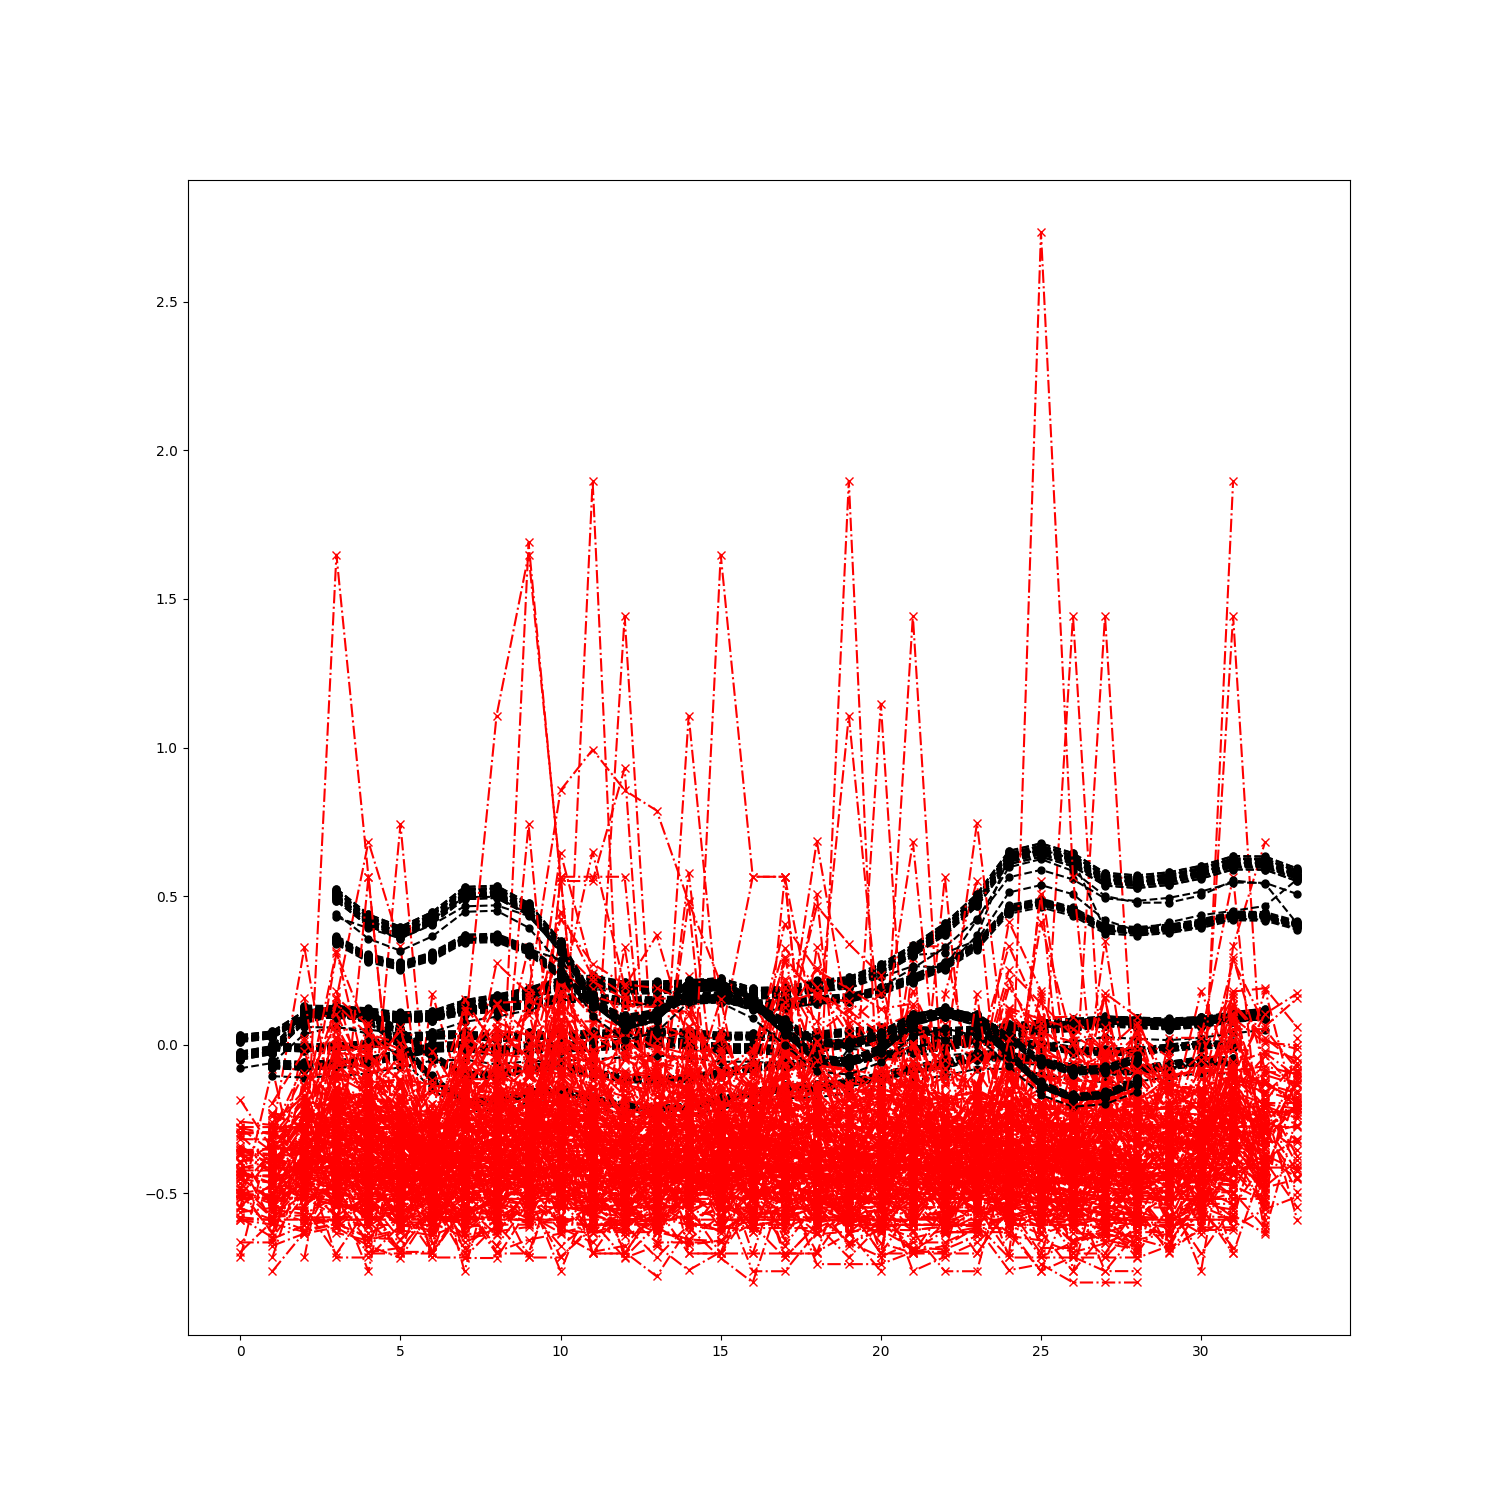
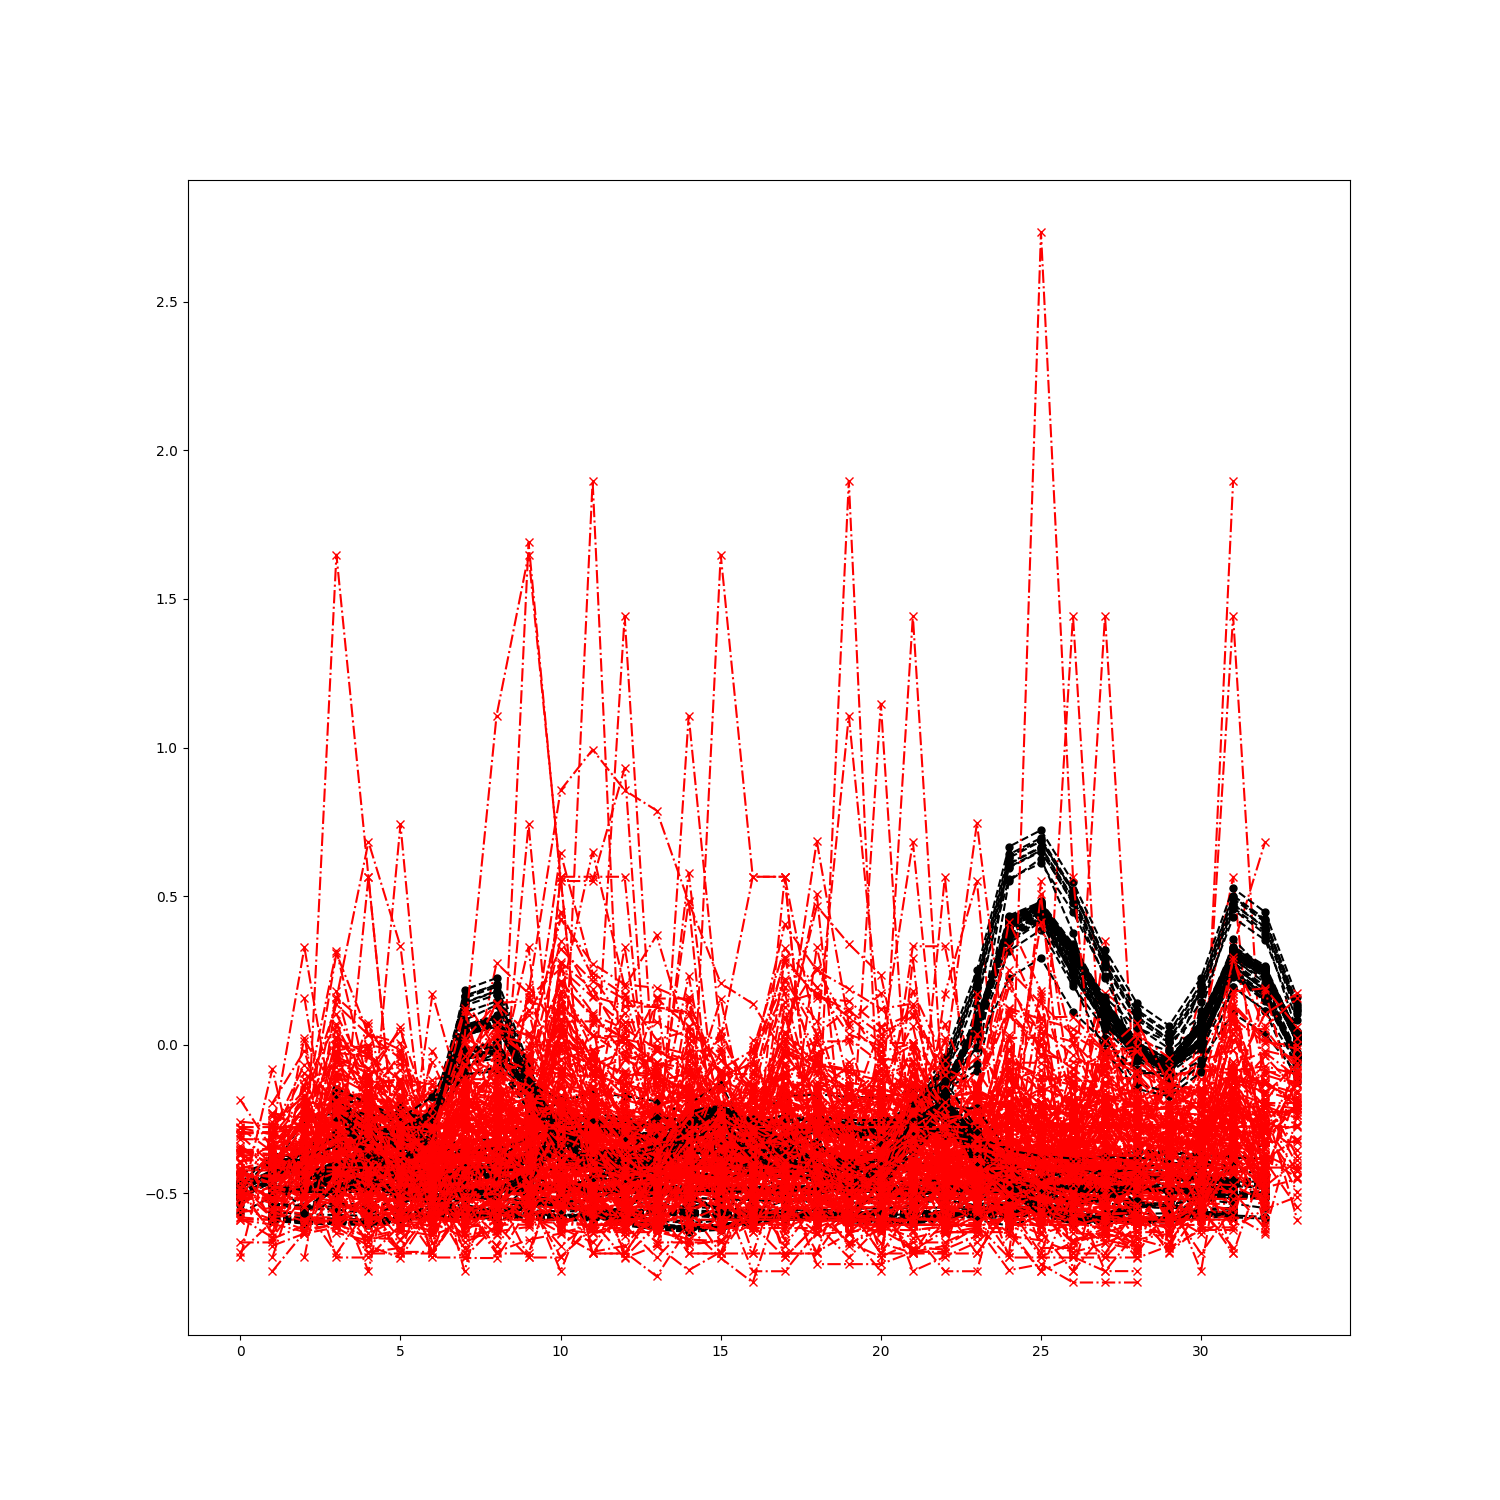
Fixed plotting the predictions, and added STAGCN
Fixed the plotting. Now we plot the average
predictions for each city. A command line arg
has been added for easy run of STGCN and STAGCN
(basically to ease running baselines)

Changed region(s): [[0.1533, 0.552, 0.8893, 0.828]]

diff --git a/main.py b/main.py
@@ -9,6 +9,7 @@ import pandas as pd
 from sklearn import preprocessing
 import matplotlib.pyplot as plt
 import seaborn as sns
+from datetime import datetime
 
 import torch
 import torch.nn as nn
@@ -39,11 +40,13 @@ def set_env(seed):
 
 def get_parameters():
     parser = argparse.ArgumentParser(description='STGCN')
+    parser.add_argument("--framework", type=str,
+                        choices=['STAGCN', 'STGCN'], default='STAGCN')
     parser.add_argument('--enable_cuda', type=bool,
                         default=True, help='enable CUDA, default as True')
     parser.add_argument('--seed', type=int, default=42,
                         help='set the random seed for stabilizing experiment results')
-    parser.add_argument('--dataset', type=str, default='metr-la',
+    parser.add_argument('--dataset', type=str, default='covid',
                         choices=['metr-la', 'pems-bay', 'pemsd7-m', 'covid'])
     parser.add_argument('--n_his', type=int, default=30)
     parser.add_argument('--n_pred', type=int, default=10,
@@ -226,21 +229,95 @@ def val(model, val_iter):
 def test(zscore, loss, model, test_iter, args, return_preds=False):
     model.eval()
     test_MSE, preds, ground_truths = utility.evaluate_model(
-        model, loss, test_iter, return_preds)
-    test_MAE, test_RMSE, test_WMAPE, test_NRMSE, test_MAPE = utility.evaluate_metric(
+        model, loss, test_iter, return_preds, scaler=zscore)
+    print(len(preds), len(ground_truths))
+    test_MAE, test_RMSE, test_WMAPE, test_NRMSE, test_MAPE, _, __ = utility.evaluate_metric(
         model, test_iter, zscore)
     print(f'Dataset {args.dataset:s} | Test loss {test_MSE:.6f} | MAE {test_MAE:.6f} | RMSE {test_RMSE:.6f} | WMAPE {test_WMAPE:.8f} | NRMSE {test_NRMSE:.6f} | MAPE {test_MAPE:.6f}')
     return preds, ground_truths
 
 
 @torch.no_grad()
-def plot_predictions(preds, ground_truths, figname="./prediction.png"):
-    plt.figure(figsize=(15, 15))
-    for i in range(len(preds)):
-        plt.plot(range(i, i+len(preds[i])), preds[i].cpu().numpy(),
-                 marker='o', color='black', markersize=5, linestyle='dashed')
-        plt.plot(range(i, i+len(ground_truths[i])), ground_truths[i].cpu(
-        ).numpy(), marker='x', color='red', markersize=6, linestyle='-.')
+def plot_predictions(preds, ground_truths, args):
+    timestamp = datetime.now().strftime("%H_%M_%S")
+    figname = f"./{args.framework}_{args.seed}_{args.n_his}_{args.n_pred}_{args.stblock_num}_{args.patience}_{timestamp}_predictions.png"
+    plt.figure(figsize=(20, 20))
+    preds = np.array(preds)
+    ground_truths = np.array(ground_truths)
+    plt.plot(range(preds.shape[1]), preds.mean(axis=0),
+             marker='o', color='black', markersize=5, linestyle='--', label="Predictions")
+    plt.plot(range(preds.shape[1]), ground_truths.mean(axis=0),
+             marker='x', color='red', markersize=6, linestyle='-.', label="Ground-Truth")
+    plt.legend()
+    plt.title("Predictions vs Ground-Truths")
+    plt.ylabel("Average number of cases")
+    plt.xlabel("Cities")
+    plt.xticks(range(preds.shape[1]), [
+        "Alameda",
+        "Alpine",
+        "Amador",
+        "Butte",
+        "Calaveras",
+        "Colusa",
+        "Contra Costa",
+        "Del Norte",
+        "El Dorado",
+        "Fresno",
+        "Glenn",
+        "Humboldt",
+        "Imperial",
+        "Inyo",
+        "Kern",
+        "Kings",
+        "Lake",
+        "Lassen",
+        "Los Angeles",
+        "Madera",
+        "Marin",
+        "Mariposa",
+        "Mendocino",
+        "Merced",
+        "Modoc",
+        "Mono",
+        "Monterey",
+        "Napa",
+        "Nevada",
+        "Orange",
+        "Placer",
+        "Plumas",
+        "Riverside",
+        "Sacramento",
+        "San Benito",
+        "San Bernardino",
+        "San Diego",
+        "San Francisco",
+        "San Joaquin",
+        "San Luis Obispo",
+        "San Mateo",
+        "Santa Barbara",
+        "Santa Clara",
+        "Santa Cruz",
+        "Shasta",
+        "Sierra",
+        "Siskiyou",
+        "Solano",
+        "Sonoma",
+        "Stanislaus",
+        "Sutter",
+        "Tehama",
+        "Trinity",
+        "Tulare",
+        "Tuolumne",
+        "Ventura",
+        "Yolo",
+        "Yuba"], rotation=90)
+    # for i in range(len(preds)):
+    #     print(preds[i])
+    #     print(ground_truths[i])
+    #     plt.plot(preds[i],
+    #              marker='o', color='black', markersize=5, linestyle='--')
+    #     plt.plot(ground_truths[i],
+    #              marker='x', color='red', markersize=6, linestyle='-.')
     plt.savefig(figname)
     plt.show()
 
@@ -259,4 +336,4 @@ if __name__ == "__main__":
     train(loss, args, optimizer, scheduler, es, model, train_iter, val_iter)
     preds, ground_truths = test(
         zscore, loss, model, test_iter, args, return_preds=True)
-    plot_predictions(preds, ground_truths)
+    plot_predictions(preds, ground_truths, args)

diff --git a/script/utility.py b/script/utility.py
@@ -3,6 +3,7 @@ import scipy.sparse as sp
 from scipy.sparse.linalg import eigsh
 import torch
 
+
 def calc_gso(dir_adj, gso_type):
     n_vertex = dir_adj.shape[0]
 
@@ -14,15 +15,17 @@ def calc_gso(dir_adj, gso_type):
     id = sp.identity(n_vertex, format='csc')
 
     # Symmetrizing an adjacency matrix
-    adj = dir_adj + dir_adj.T.multiply(dir_adj.T > dir_adj) - dir_adj.multiply(dir_adj.T > dir_adj)
+    adj = dir_adj + \
+        dir_adj.T.multiply(dir_adj.T > dir_adj) - \
+        dir_adj.multiply(dir_adj.T > dir_adj)
     #adj = 0.5 * (dir_adj + dir_adj.transpose())
-    
+
     if gso_type == 'sym_renorm_adj' or gso_type == 'rw_renorm_adj' \
-        or gso_type == 'sym_renorm_lap' or gso_type == 'rw_renorm_lap':
+            or gso_type == 'sym_renorm_lap' or gso_type == 'rw_renorm_lap':
         adj = adj + id
-    
+
     if gso_type == 'sym_norm_adj' or gso_type == 'sym_renorm_adj' \
-        or gso_type == 'sym_norm_lap' or gso_type == 'sym_renorm_lap':
+            or gso_type == 'sym_norm_lap' or gso_type == 'sym_renorm_lap':
         row_sum = adj.sum(axis=1).A1
         row_sum_inv_sqrt = np.power(row_sum, -0.5)
         row_sum_inv_sqrt[np.isinf(row_sum_inv_sqrt)] = 0.
@@ -37,7 +40,7 @@ def calc_gso(dir_adj, gso_type):
             gso = sym_norm_adj
 
     elif gso_type == 'rw_norm_adj' or gso_type == 'rw_renorm_adj' \
-        or gso_type == 'rw_norm_lap' or gso_type == 'rw_renorm_lap':
+            or gso_type == 'rw_norm_lap' or gso_type == 'rw_renorm_lap':
         row_sum = np.sum(adj, axis=1).A1
         row_sum_inv = np.power(row_sum, -1)
         row_sum_inv[np.isinf(row_sum_inv)] = 0.
@@ -55,6 +58,7 @@ def calc_gso(dir_adj, gso_type):
         raise ValueError(f'{gso_type} is not defined.')
 
     return gso
+
 
 def calc_chebynet_gso(gso):
     if sp.issparse(gso) == False:
@@ -74,6 +78,7 @@ def calc_chebynet_gso(gso):
 
     return gso
 
+
 def cnv_sparse_mat_to_coo_tensor(sp_mat, device):
     # convert a compressed sparse row (csr) or compressed sparse column (csc) matrix to a hybrid sparse coo tensor
     sp_coo_mat = sp_mat.tocoo()
@@ -84,9 +89,11 @@ def cnv_sparse_mat_to_coo_tensor(sp_mat, device):
     if sp_mat.dtype == np.float32 or sp_mat.dtype == np.float64:
         return torch.sparse_coo_tensor(indices=i, values=v, size=s, dtype=torch.float32, device=device, requires_grad=False)
     else:
-        raise TypeError(f'ERROR: The dtype of {sp_mat} is {sp_mat.dtype}, not been applied in implemented models.')
+        raise TypeError(
+            f'ERROR: The dtype of {sp_mat} is {sp_mat.dtype}, not been applied in implemented models.')
 
-def evaluate_model(model, loss, data_iter, return_preds = False):
+
+def evaluate_model(model, loss, data_iter, return_preds=False, scaler=None):
     model.eval()
     l_sum, n = 0.0, 0
     preds = []
@@ -94,9 +101,12 @@ def evaluate_model(model, loss, data_iter, return_preds = False):
     with torch.no_grad():
         for x, y in data_iter:
             y_pred = model(x).view(len(x), -1)
+            print(y_pred.shape)
             if return_preds:
-                preds.append(y_pred)
-                ground_truths.append(y)
+                preds.append(scaler.inverse_transform(
+                    y_pred.cpu().numpy()).mean(axis=0))
+                ground_truths.append(
+                    scaler.inverse_transform(y.cpu().numpy()).mean(axis=0))
             l = loss(y_pred, y)
             l_sum += l.item() * y.shape[0]
             n += y.shape[0]
@@ -107,13 +117,19 @@ def evaluate_model(model, loss, data_iter, return_preds = False):
 
         return mse
 
+
 def evaluate_metric(model, data_iter, scaler):
     model.eval()
+    preds = []
+    ground_truths = []
     with torch.no_grad():
         mae, sum_y, mape, mse = [], [], [], []
         for x, y in data_iter:
             y = scaler.inverse_transform(y.cpu().numpy()).reshape(-1)
-            y_pred = scaler.inverse_transform(model(x).view(len(x), -1).cpu().numpy()).reshape(-1)
+            ground_truths.append(y)
+            y_pred = scaler.inverse_transform(
+                model(x).view(len(x), -1).cpu().numpy()).reshape(-1)
+            preds.append(y_pred)
             d = np.abs(y - y_pred)
             mae += d.tolist()
             sum_y += y.tolist()
@@ -123,6 +139,6 @@ def evaluate_metric(model, data_iter, scaler):
         MAPE = np.array(mape).mean()
         RMSE = np.sqrt(np.array(mse).mean())
         WMAPE = np.sum(np.array(mae)) / np.sum(np.array(sum_y))
-        NRMSE = RMSE/((np.max(y) - np.min(y))
-        #return MAE, MAPE, RMSE
-        return MAE, RMSE, WMAPE, MAPE, NRMSE
+        NRMSE = RMSE / ((np.max(y) - np.min(y)))
+        # return MAE, MAPE, RMSE
+        return MAE, RMSE, WMAPE, MAPE, NRMSE, ground_truths, preds

diff --git a/model/layers.py b/model/layers.py
@@ -293,7 +293,7 @@ class STConvBlock(nn.Module):
     # N: Layer Normolization
     # D: Dropout
 
-    def __init__(self, Kt, Ks, n_vertex, last_block_channel, channels, act_func, graph_conv_type, gso, bias, droprate, n_his=None, l=None):
+    def __init__(self, Kt, Ks, n_vertex, last_block_channel, channels, act_func, graph_conv_type, gso, bias, droprate, n_his=None, l=None, use_attn=None):
         super(STConvBlock, self).__init__()
         self.tmp_conv1 = TemporalConvLayer(
             Kt, last_block_channel, channels[0], n_vertex, act_func)
@@ -302,9 +302,12 @@ class STConvBlock(nn.Module):
         self.tmp_conv2 = TemporalConvLayer(
             Kt, channels[1], channels[2], n_vertex, act_func)
 
-        self.attn = MultiHeadSelfAttention(
-            hidden_dim=144*(n_his - 2*(l+1)), num_heads=1)
-        self.fcn = nn.Linear(144*(n_his - 2*(l+1)), 64*(n_his - 2*(l+1) - 2))
+        self.use_attn = use_attn
+        if self.use_attn:
+            self.attn = MultiHeadSelfAttention(
+                hidden_dim=144*(n_his - 2*(l+1)), num_heads=1)
+            self.fcn = nn.Linear(144*(n_his - 2*(l+1)),
+                                 64*(n_his - 2*(l+1) - 2))
 
         # if n_his == 30:
         #     self.attn = MultiHeadSelfAttention(
@@ -326,7 +329,7 @@ class STConvBlock(nn.Module):
         self.dropout = nn.Dropout(p=droprate)
 
     def forward(self, x):
-        #print("############################ entering the forward method of STConvBlock ###########################################")
+        # print("############################ entering the forward method of STConvBlock ###########################################")
         #print(f"Input shape to STConvBlock = {x.shape}")
         #print(f"n_his from forward = {self.n_his}")
         #print(f"l from forward = {self.l}")
@@ -338,32 +341,27 @@ class STConvBlock(nn.Module):
         # print(graph1.shape)
         x = self.tmp_conv2(graph1)
         # print(x.shape)
-        tmp2 = F.pad(x, (0, 0, 1, 1), "constant", 0)
-        # print(tmp2.shape)
-        concat = torch.cat([tmp1, graph1, tmp2], dim=1)
-        #print(f"concat.shape = {concat.shape}")
-        batch_size, channels, embed_dim, num_nodes = concat.size()
-        #print(f"embed_dim = {embed_dim}")
-        attn_out, _ = self.attn(concat.reshape(
-            batch_size, num_nodes, channels*embed_dim))
-        # print(batch_size, channels, embed_dim, num_nodes)
-        #print(f"attention_output.shape = {attn_out.shape}")
-        attn_out = self.fcn(attn_out)
-        #print(f"shape after adjusting = {attn_out.shape}")
-        batch_size, channels, embed_dim, num_nodes = concat.size()
-        #print(f"embed_dim = {embed_dim}")
+        if self.use_attn:
+            tmp2 = F.pad(x, (0, 0, 1, 1), "constant", 0)
+            # print(tmp2.shape)
+            concat = torch.cat([tmp1, graph1, tmp2], dim=1)
+            #print(f"concat.shape = {concat.shape}")
+            batch_size, channels, embed_dim, num_nodes = concat.size()
+            #print(f"embed_dim = {embed_dim}")
 
-        if embed_dim == 28:
+            attn_out, _ = self.attn(concat.reshape(
+                batch_size, num_nodes, channels*embed_dim))
+            # print(batch_size, channels, embed_dim, num_nodes)
+            #print(f"attention_output.shape = {attn_out.shape}")
+            attn_out = self.fcn(attn_out)
+            #print(f"shape after adjusting = {attn_out.shape}")
+            batch_size, channels, embed_dim, num_nodes = concat.size()
+            #print(f"embed_dim = {embed_dim}")
             x1 = attn_out.permute(0, 2, 1).view(
                 batch_size, -1, embed_dim-2, num_nodes)
-        else:
-            #print(f"shape after permute")
-            x1 = attn_out.permute(0, 2, 1).reshape(
-                (batch_size, -1, embed_dim-2, num_nodes))
-
-        #print(f"x1.shape = {x1.shape}")
-        # x1 = attn_out
-        x = x1
+            #print(f"x1.shape = {x1.shape}")
+            # x1 = attn_out
+            x = x1
 
         x = self.tc2_ln(x.permute(0, 2, 3, 1)).permute(0, 3, 1, 2)
         x = self.dropout(x)

diff --git a/model/models.py b/model/models.py
@@ -33,7 +33,7 @@ class STGCNChebGraphConv(nn.Module):
         for l in range(len(blocks) - 3):
             # print(l)
             modules.append(layers.STConvBlock(args.Kt, args.Ks, n_vertex,
-                                              blocks[l][-1], blocks[l+1], args.act_func, args.graph_conv_type, args.gso, args.enable_bias, args.droprate, n_his, l))
+                                              blocks[l][-1], blocks[l+1], args.act_func, args.graph_conv_type, args.gso, args.enable_bias, args.droprate, n_his, l, args.framework))
             n_his -= 2
         self.st_blocks = nn.Sequential(*modules)
         Ko = args.n_his - (len(blocks) - 3) * 2 * (args.Kt - 1)
@@ -100,7 +100,7 @@ class STGCNGraphConv(nn.Module):
         n_his = args.n_his
         for l in range(len(blocks) - 3):
             modules.append(layers.STConvBlock(args.Kt, args.Ks, n_vertex,
-                                              blocks[l][-1], blocks[l+1], args.act_func, args.graph_conv_type, args.gso, args.enable_bias, args.droprate, n_his, l))
+                                              blocks[l][-1], blocks[l+1], args.act_func, args.graph_conv_type, args.gso, args.enable_bias, args.droprate, n_his, l, args.framework))
             n_his -= 2
         self.st_blocks = nn.Sequential(*modules)
         Ko = args.n_his - (len(blocks) - 3) * 2 * (args.Kt - 1)

diff --git a/script/dataloader.py b/script/dataloader.py
@@ -4,12 +4,13 @@ import pandas as pd
 import scipy.sparse as sp
 import torch
 
+
 def load_adj(dataset_name):
     dataset_path = './data'
     dataset_path = os.path.join(dataset_path, dataset_name)
     adj = sp.load_npz(os.path.join(dataset_path, 'adj.npz'))
     adj = adj.tocsc()
-    
+
     if dataset_name == 'metr-la':
         n_vertex = 207
     elif dataset_name == 'pems-bay':
@@ -21,6 +22,7 @@ def load_adj(dataset_name):
 
     return adj, n_vertex
 
+
 def load_data(dataset_name, len_train, len_val):
     dataset_path = './data'
     dataset_path = os.path.join(dataset_path, dataset_name)
@@ -31,16 +33,18 @@ def load_data(dataset_name, len_train, len_val):
     test = vel[len_train + len_val:]
     return train, val, test
 
+
 def data_transform(data, n_his, n_pred, device):
     # produce data slices for x_data and y_data
-
+    # import pdb
+    # pdb.set_trace()
     n_vertex = data.shape[1]
     len_record = len(data)
     num = len_record - n_his - n_pred
-    
+
     x = np.zeros([num, 1, n_his, n_vertex])
     y = np.zeros([num, n_vertex])
-    
+
     for i in range(num):
         head = i
         tail = i + n_his
